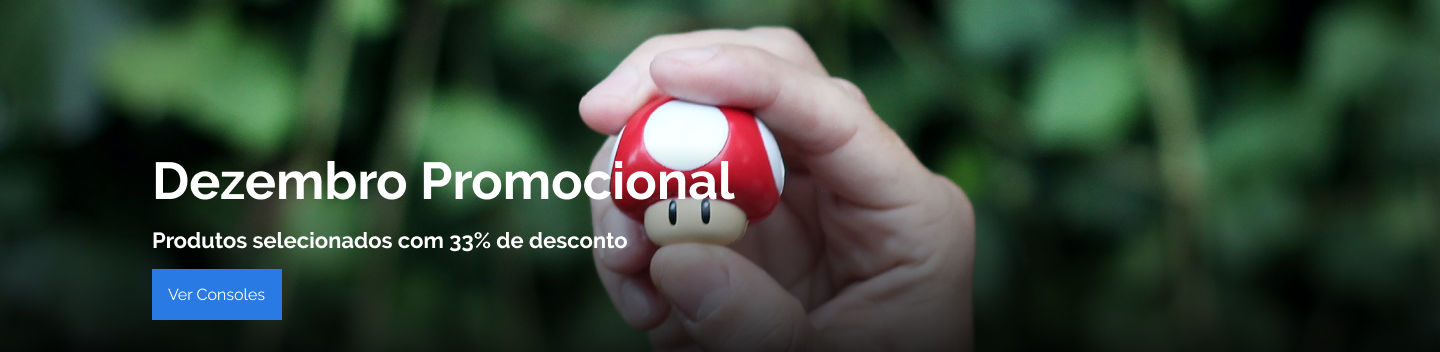
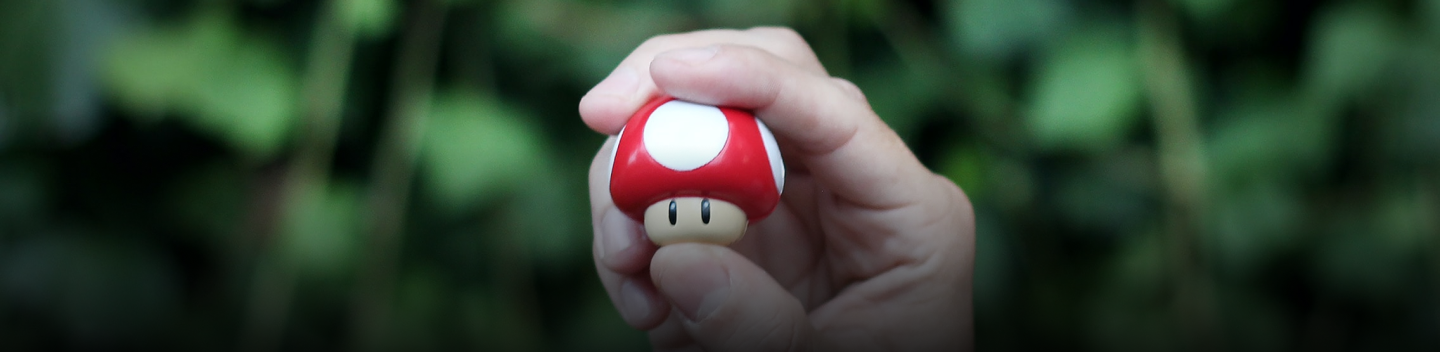
Created hero section styles and responsiveness

Changed region(s): [[0.0938, 0.4375, 0.5312, 0.5625], [0.0938, 0.6562, 0.4375, 0.7188], [0.0938, 0.75, 0.2188, 0.9062]]

diff --git a/css/hero.css b/css/hero.css
@@ -1,0 +1,44 @@
+.hero-bg{
+  width: 100vw;
+  height: 352px;
+  background-image: url(../images/bg_hero.png);
+  background-repeat: no-repeat;
+  background-position: center;
+  background-size: cover;
+  display: flex;
+  align-items: flex-end;
+  justify-content: flex-end;
+}
+
+.hero{
+  width: 100vw;
+  display: flex;
+  flex-direction: column;
+  gap: 1rem;
+}
+
+.hero h1{
+  font-size: 3.25rem;
+  color: var(--white);
+  font-weight: 700;
+}
+
+.hero h2{
+  font-size: 1.375rem;
+  color: var(--white);
+  font-weight: 700;
+}
+
+@media(max-width: 400px){
+  .hero h1{
+    font-size: 1.375rem;
+  }
+
+  .hero h2{
+    font-size: 0.875rem;
+  }
+
+  .primary-button{
+    width: 119px;
+  }
+}

diff --git a/index.html b/index.html
@@ -32,5 +32,13 @@
         </div>
       </div>
     </header>
+
+    <section class="hero-bg">
+      <div class="hero container">
+        <h1>Dezembro promocional</h1>
+        <h2>Produtos selecionados com 33% de desconto</h2>
+        <a class="primary-button" href="#">Ver consoles</a>
+      </div>
+    </section>
   </body>
 </html>

diff --git a/css/header.css b/css/header.css
@@ -57,11 +57,14 @@
 @media(max-width: 800px){
   .header{
     padding: 1.375rem 2rem;
+    flex-wrap: wrap;
+    gap: 1rem;
   }
 
   .header-logo{
     width: 180px;
     height: 28px;
+    margin-bottom: 1.5rem;
   }
 
   .header-search-bg{

diff --git a/css/style.css b/css/style.css
@@ -1,3 +1,4 @@
 @import url(../css/global.css);
 
 @import url(../css/header.css);
+@import url(../css/hero.css);
